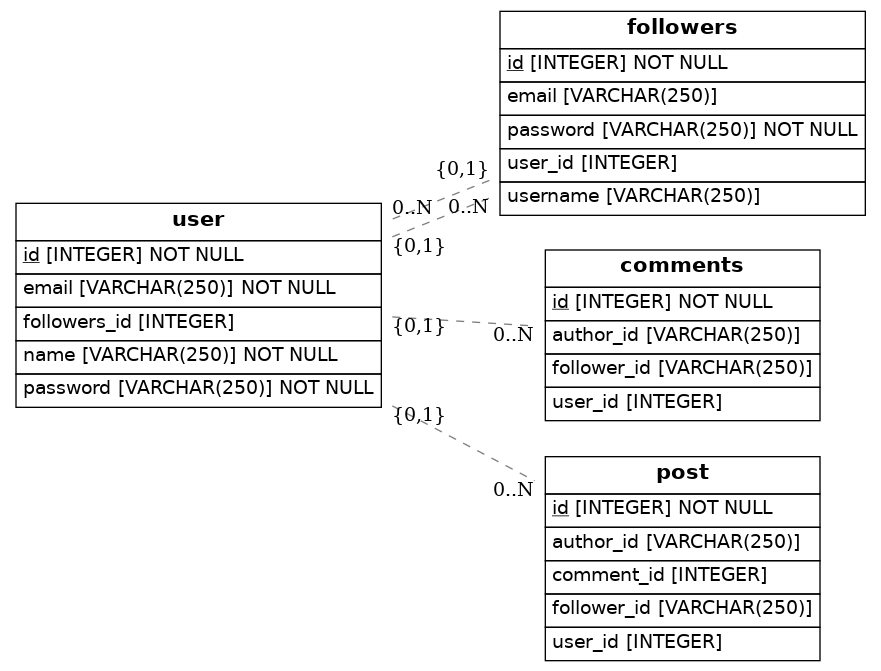
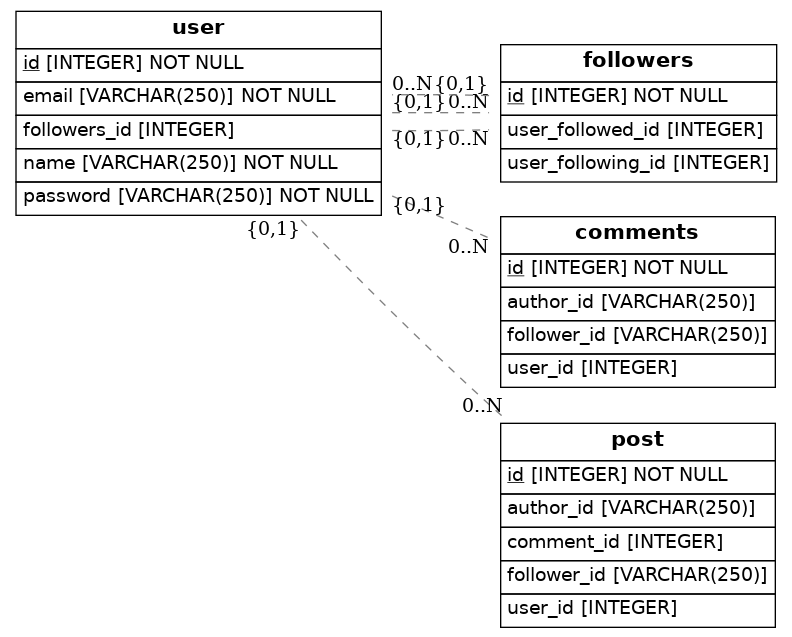
final work for instagram

Changed region(s): [[0.0, 0.0, 1.0, 1.0]]

diff --git a/src/models.py b/src/models.py
@@ -24,10 +24,14 @@ class Followers(Base):
     # Here we define columns for the table address.
     # Notice that each column is also a normal Python instance attribute.
     id = Column(Integer, primary_key=True)
-    username = Column(String(250))
-    email = Column(String(250),ForeignKey('email.id'))
-    password = Column(String(250), nullable=False)
-    user_id = Column(Integer,ForeignKey('user.id'))
+    user_following_id = Column(Integer, ForeignKey('user.id'))
+    user_followed_id = Column(Integer, ForeignKey('user.id'))
+    #username = Column(String(250))
+    #password = Column(String(250), nullable=False)
+
+    #user_id = Column(Integer,ForeignKey('user.id'))
+    #email = Column(String(250),ForeignKey('email.id'))
+   
    #followers_id = Column(Integer,ForeignKey('followers.id'))
     #person_id = Column(Integer, ForeignKey('person.id'))
     #person = relationship(Person)
